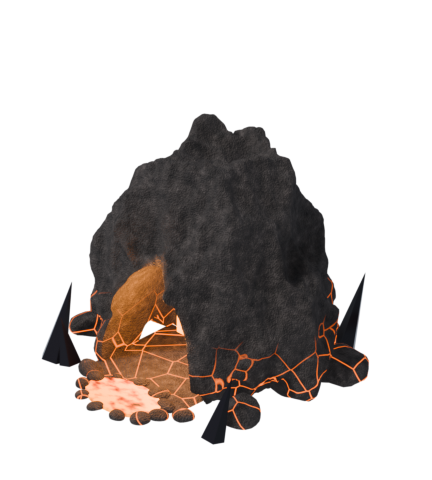
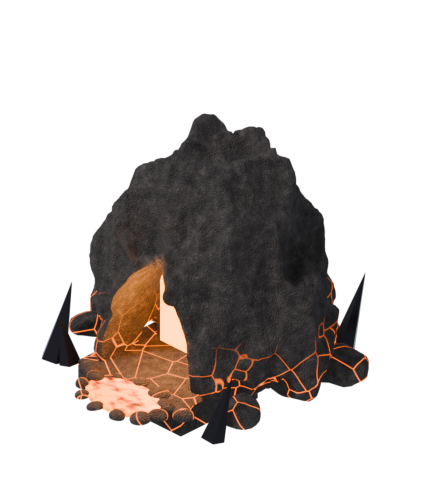
feat: le monstre entre vraiment dans l'antre volcanique (trajet, facade qui le masque, obscurite) et en ressort de face

diff --git a/src/render/GameScene.js b/src/render/GameScene.js
@@ -8,6 +8,7 @@ import {
 } from './sprites.js';
 import { createWanderer, stepWander, findFreeSpot } from './wander.js';
 import { straightLine, pathLineCost } from './pathline.js';
+import { shelterSpots, stepShelterVisit } from './shelterpath.js';
 import { enclosurePrice, shelterSize } from '../sim/build.js';
 
 const fmtCost = (n) => Math.round(n).toLocaleString('fr-FR');
@@ -33,7 +34,7 @@ const SHELTER_IMG = { w: 288, h: 320, groundY: 230, tiles: 2 };
 // Shelters remodelled in Blender (models/blender/musee-decors.blend, scene MuseeShelters) for 3 x 3 tiles.
 const SHELTER_IMG_3D = { lava: { w: 432, h: 480, groundY: 345, tiles: 3 } };
 const SHELTER_RADIUS = 0.8;
-const SHELTER_ENTRANCE = 1.15;
+// (SHELTER_ENTRANCE now lives in src/render/shelterpath.js, with the walk into the cave)
 // Colour of the eyes glowing in the dark of a shelter.
 const EYES = { dragonnet: 0xffa040, kraken: 0xfff070, spectre: 0x9fe6ff, golem: 0xffc850, yeti: 0x8fd0ff };
 // Habitat grounds repeat every GROUND_BLOCK tiles.
@@ -321,9 +322,14 @@ export class GameScene extends Phaser.Scene {
         const F = SHELTER_IMG_3D[sh.family] ?? SHELTER_IMG;
         const k = n / F.tiles; // the image is made for F.tiles x F.tiles tiles
         const c = tileToScreen(sh.tx + half, sh.ty + half);
-        this.decorSprites.push(this.add.image(c.x, c.y, `img-shelter-${sh.family}`)
-          .setOrigin(0.5, F.groundY / F.h)
-          .setDisplaySize((F.w / 2) * k, (F.h / 2) * k).setDepth(c.y + 4 * n));
+        const place = (key, depth) => this.decorSprites.push(this.add.image(c.x, c.y, key)
+          .setOrigin(0.5, F.groundY / F.h).setDisplaySize((F.w / 2) * k, (F.h / 2) * k).setDepth(depth));
+        if (this.textures.exists(`img-shelter-${sh.family}-front`)) {
+          // two layers: the whole cave behind everything in it, and its rock front (the mouth cut out)
+          // in front of a monster walking in, so it really disappears into the cave
+          place(`img-shelter-${sh.family}`, tileToScreen(sh.tx, sh.ty).y - 60);
+          place(`img-shelter-${sh.family}-front`, c.y + 4 * n);
+        } else place(`img-shelter-${sh.family}`, c.y + 4 * n);
       }
       for (const d of e.decor ?? []) {
         // the variant (turned differently) is picked from the tile, so it never changes
@@ -371,24 +377,23 @@ export class GameScene extends Phaser.Scene {
       entry.w.rest = Math.random() * 3;
     }
     entry.atShelter = false;
-    if (sh && m.shelter) {
-      // taking refuge: straight to the entrance of the shelter, then stays there
+    entry.caveDark = 0;
+    entry.sv ??= { stage: null };
+    if (sh && (m.shelter || entry.sv.stage)) {
+      // taking refuge for real (src/render/shelterpath.js): around the rock, in front of the cave,
+      // straight in, rest at the mouth or deep inside; then out again, facing the viewer
       const w = entry.w;
-      const gx = sh.tx + shHalf, gy = sh.ty + shHalf + (SHELTER_ENTRANCE - 0.5) * (shN / 2);
-      const d = Math.hypot(gx - w.x, gy - w.y);
-      const step = (w.speed ?? 0.7) * dt;
-      if (d > step) {
-        w.x += ((gx - w.x) / d) * step;
-        w.y += ((gy - w.y) / d) * step;
-      } else {
-        w.x = gx;
-        w.y = gy;
-        entry.atShelter = true;
+      entry.sv.x = w.x; entry.sv.y = w.y;
+      const visit = stepShelterVisit(entry.sv, shelterSpots(sh, shN), m.shelter, w.speed ?? 0.7, dt);
+      w.x = entry.sv.x; w.y = entry.sv.y;
+      entry.atShelter = visit.atRest;
+      entry.caveDark = visit.dark;
+      if (entry.sv.stage) {
+        w.goal = null;
+        w.rest = 1 + Math.random(); // when it comes out, a short pause before walking away
+        return { x: w.x, y: w.y };
       }
-      w.goal = null;
-      w.rest = 1 + Math.random(); // when it comes out, a short pause before walking away
-      return { x: w.x, y: w.y };
-    }
+    } else entry.sv.stage = null;
     const goal = entry.w.goal;
     stepWander(entry.w, others, bounds, dt, Math.random);
     // a new stroll: now and then a run (monsters with a run animation)
@@ -593,14 +598,19 @@ export class GameScene extends Phaser.Scene {
       // no shadow on the water under a swimming monster, nor under a ghost
       entry.shadow.setVisible(!swimming && !fx.spectral);
       entry.shadow.setPosition(p.x, p.y + (look.directional ? 1 : 6)).setDepth(p.y - 0.5).setScale(shadow[0], shadow[1]);
-      // hidden in its shelter: it fades into the dark, only its eyes still glow
-      const hidden = m.shelter === 'inside' && entry.atShelter ? 0 : 1;
+      // in its cave: darker and darker as it goes in, until only its eyes still glow
+      const hidden = 1 - (entry.caveDark ?? 0);
       entry.hideK = (entry.hideK ?? 1) + (hidden - (entry.hideK ?? 1)) * (1 - Math.exp(-dtReal * 4));
       entry.shadow.setAlpha(entry.hideK);
       if (fx.spectral || fx.crossfadeMs) {
         const alpha = fx.spectral ? this.fx.spectral(m, entry, p, time, dt, time < (entry.walkUntil || 0)) : 1;
         this.fx.applyCrossfade(entry, fx.crossfadeMs ?? 1, alpha * entry.hideK);
       } else entry.sprite.setAlpha(entry.hideK);
+      if ((entry.caveDark ?? 0) > 0.01) {
+        // the light of the day fades on it before it disappears in the dark
+        const v = Math.round(255 * (1 - 0.75 * Math.min(1, entry.caveDark * 1.4)));
+        entry.sprite.setTint(Phaser.Display.Color.GetColor(v, Math.round(v * 0.92), Math.round(v * 0.85)));
+      }
       const eyes = Math.max(0, 1 - entry.hideK / 0.35);
       const blink = Math.sin(time * 0.0013 + entry.phase * 3) > -0.93 ? 1 : 0;
       this.fx.shelterEyes(entry, p.x, p.y - 13, eyes * blink, EYES[m.speciesId] ?? 0xffe080);

diff --git a/src/render/shelterpath.js b/src/render/shelterpath.js
@@ -1,0 +1,76 @@
+// A monster going into its shelter for real: it walks around the rock if needed, stops in front of
+// the cave, walks straight in (back to the viewer), rests at the mouth or deep inside, and later walks
+// out (facing the viewer). Positions in tile units; the mouth faces +y (down-left on screen).
+
+// Where the monster rests "at the entrance", from the shelter's first tile (for a 2 x 2 one; scaled).
+export const SHELTER_ENTRANCE = 1.15;
+
+export function shelterSpots(sh, n) {
+  const half = (n - 1) / 2;
+  const cx = sh.tx + half, cy = sh.ty + half;
+  const mouthY = cy + (SHELTER_ENTRANCE - 0.5) * (n / 2);
+  return {
+    cx, cy, n,
+    rect: { x0: sh.tx - 0.5, x1: sh.tx + n - 0.5, y0: sh.ty - 0.5, y1: sh.ty + n - 0.5 },
+    mouth: { x: cx, y: mouthY }, // resting at the entrance, still in the light
+    front: { x: cx, y: mouthY + 0.8 }, // just outside, facing the cave
+    deep: { x: cx, y: mouthY - 0.3 * n }, // inside, in the dark, still seen through the opening (its eyes)
+  };
+}
+
+const inRect = (p, r) => p.x > r.x0 && p.x < r.x1 && p.y > r.y0 && p.y < r.y1;
+function crosses(a, b, r) {
+  for (let i = 1; i < 20; i++) {
+    const t = i / 20;
+    if (inRect({ x: a.x + (b.x - a.x) * t, y: a.y + (b.y - a.y) * t }, r)) return true;
+  }
+  return false;
+}
+
+// Waypoints from p to the front of the cave that never cut through the rock.
+function routeToFront(p, s) {
+  if (!crosses(p, s.front, s.rect)) return [s.front];
+  const side = { x: s.cx + Math.sign(p.x - s.cx || 1) * (s.n / 2 + 0.8), y: s.front.y };
+  if (!crosses(p, side, s.rect)) return [side, s.front];
+  return [{ x: side.x, y: p.y }, side, s.front];
+}
+
+// v: { stage, x, y } kept between calls (stage null = not visiting). want: null, 'entrance' or 'inside'.
+// Returns { atRest, dark } where dark goes from 0 at the mouth to 1 deep inside.
+export function stepShelterVisit(v, s, want, speed, dt) {
+  let budget = speed * dt;
+  const moveTo = (t) => {
+    const dx = t.x - v.x, dy = t.y - v.y, d = Math.hypot(dx, dy);
+    if (d <= budget) { v.x = t.x; v.y = t.y; budget -= d; return true; }
+    v.x += (dx / d) * budget; v.y += (dy / d) * budget; budget = 0; return false;
+  };
+  const inTunnel = Math.abs(v.x - s.cx) < 1e-6 && v.y <= s.front.y + 1e-6 && v.y >= s.deep.y - 1e-6;
+
+  if (want) {
+    if (!v.stage || v.stage === 'exit') {
+      if (v.stage === 'exit' && inTunnel) v.stage = 'enter';
+      else { v.stage = 'approach'; v.route = routeToFront(v, s); }
+    }
+    while (budget > 0) {
+      if (v.stage === 'approach') {
+        if (moveTo(v.route[0])) {
+          v.route.shift();
+          if (!v.route.length) v.stage = 'enter';
+        }
+      } else if (v.stage === 'enter' || v.stage === 'rest') {
+        const target = want === 'inside' ? s.deep : s.mouth;
+        v.stage = moveTo(target) ? 'rest' : 'enter';
+        if (v.stage === 'rest') break;
+      } else break;
+    }
+  } else if (v.stage === 'approach') {
+    v.stage = null; // called off on the way: just stops there
+  } else if (v.stage) {
+    v.stage = 'exit';
+    if (moveTo(s.front)) v.stage = null;
+  }
+
+  const tunnel = Math.abs(v.x - s.cx) < 1e-6;
+  const dark = tunnel ? Math.max(0, Math.min(1, (s.mouth.y - v.y) / (s.mouth.y - s.deep.y))) : 0;
+  return { atRest: v.stage === 'rest', dark };
+}

diff --git a/tests/render/shelterpath.test.js b/tests/render/shelterpath.test.js
@@ -1,0 +1,84 @@
+import { describe, it, expect } from 'vitest';
+import { shelterSpots, stepShelterVisit } from '../../src/render/shelterpath.js';
+
+// a 3 x 3 shelter on tiles 4..6 x 4..6: its mouth faces +y (down-left on screen)
+const sh = { tx: 4, ty: 4 };
+const spots = shelterSpots(sh, 3);
+const inFootprint = (p) => p.x > 3.5 && p.x < 6.5 && p.y > 3.5 && p.y < 6.5;
+
+function run(v, want, seconds, onStep) {
+  for (let i = 0; i < seconds * 20; i++) {
+    const r = stepShelterVisit(v, spots, want, 0.7, 0.05);
+    if (onStep) onStep(r);
+    if (r.atRest && want) return r;
+    if (!want && v.stage === null) return r;
+  }
+  return null;
+}
+
+describe('shelterSpots', () => {
+  it('the mouth is on the front side (+y), the deep spot inside the footprint, the front spot outside', () => {
+    expect(spots.mouth.x).toBe(5);
+    expect(spots.front.y).toBeGreaterThan(spots.mouth.y);
+    expect(spots.deep.y).toBeLessThan(spots.mouth.y);
+    expect(inFootprint(spots.deep)).toBe(true);
+    expect(inFootprint(spots.front)).toBe(false);
+  });
+});
+
+describe('stepShelterVisit', () => {
+  it('to hide: goes in front of the cave, then walks straight into it, back to the viewer, and rests deep inside', () => {
+    const v = { stage: null, x: 8, y: 9 };
+    const xsInside = [];
+    let movedBackward = false;
+    let lastY = v.y;
+    const r = run(v, 'inside', 30, (s) => {
+      if (inFootprint(v)) xsInside.push(v.x);
+      if (v.stage === 'enter' && v.y < lastY) movedBackward = true; // going away from the viewer (-y)
+      lastY = v.y;
+    });
+    expect(r).not.toBeNull();
+    expect(v.x).toBeCloseTo(spots.deep.x, 5);
+    expect(v.y).toBeCloseTo(spots.deep.y, 5);
+    expect(xsInside.every((x) => Math.abs(x - spots.mouth.x) < 1e-6)).toBe(true); // only through the tunnel
+    expect(movedBackward).toBe(true);
+    expect(r.dark).toBeCloseTo(1, 5);
+  });
+
+  it('to rest at the entrance: stops in the mouth, still in the light', () => {
+    const v = { stage: null, x: 8, y: 9 };
+    const r = run(v, 'entrance', 30);
+    expect(v.y).toBeCloseTo(spots.mouth.y, 5);
+    expect(r.dark).toBeCloseTo(0, 5);
+  });
+
+  it('coming from behind, it walks around the rock instead of through it', () => {
+    const v = { stage: null, x: 5, y: 1.5 }; // behind the shelter
+    run(v, 'inside', 40, () => {
+      if (inFootprint(v)) expect(Math.abs(v.x - spots.mouth.x)).toBeLessThan(1e-6);
+    });
+    expect(v.y).toBeCloseTo(spots.deep.y, 5);
+  });
+
+  it('when it is time to come out, it walks out facing the viewer, then is free again', () => {
+    const v = { stage: null, x: 8, y: 9 };
+    run(v, 'inside', 30);
+    let lastY = v.y;
+    let alwaysForward = true;
+    run(v, null, 30, () => {
+      if (v.y < lastY - 1e-9) alwaysForward = false;
+      lastY = v.y;
+    });
+    expect(v.stage).toBeNull();
+    expect(alwaysForward).toBe(true);
+    expect(v.y).toBeCloseTo(spots.front.y, 5);
+  });
+
+  it('called off on the way: it simply stops where it is', () => {
+    const v = { stage: null, x: 9, y: 9 };
+    stepShelterVisit(v, spots, 'inside', 0.7, 0.5);
+    expect(v.stage).not.toBeNull();
+    stepShelterVisit(v, spots, null, 0.7, 0.05);
+    expect(v.stage).toBeNull();
+  });
+});
